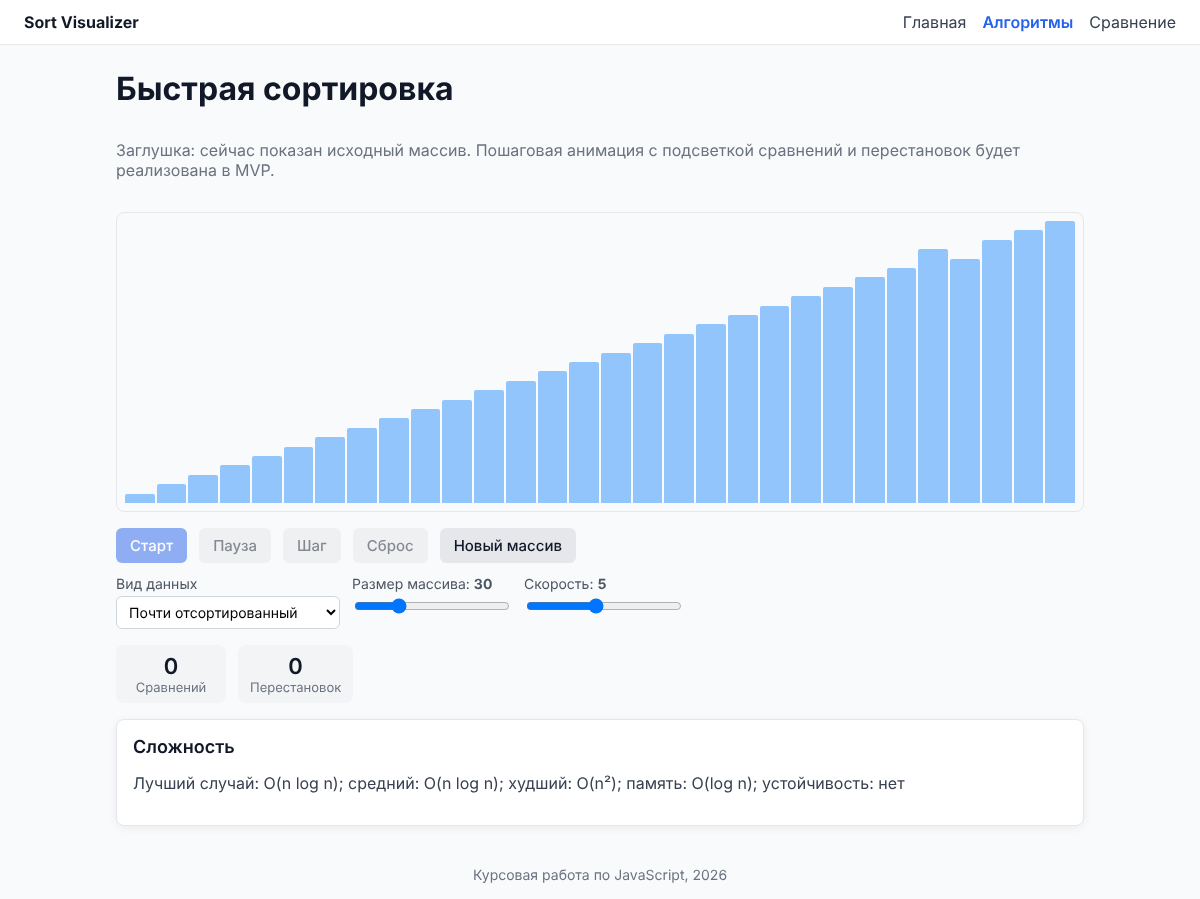
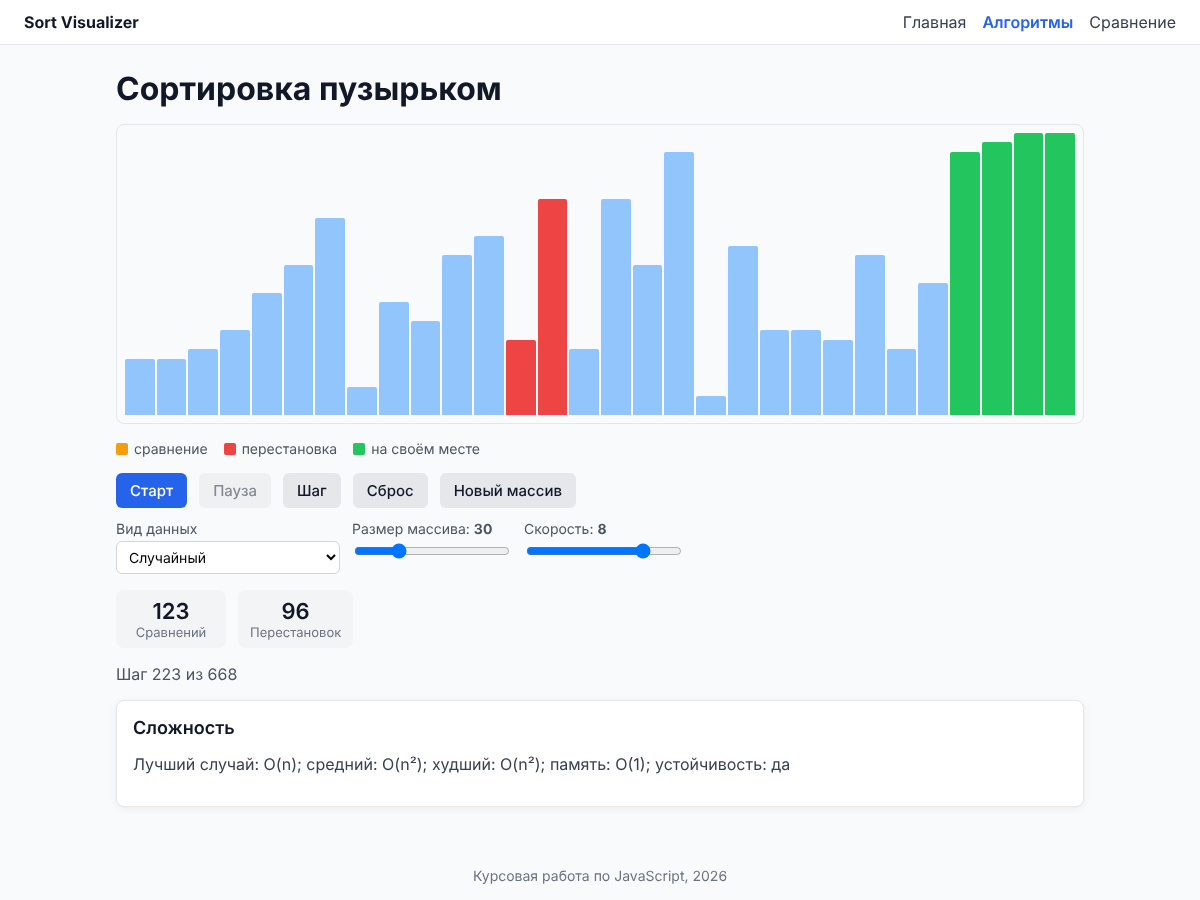
Update README and architecture for MVP

Changed region(s): [[0.0925, 0.1246, 0.8942, 0.9032], [0.0925, 0.0934, 0.4317, 0.1246], [0.6783, 0.8721, 0.7092, 0.9032]]

diff --git a/architecture.md b/architecture.md
@@ -50,14 +50,22 @@ sort-visualizer/
         ├── algorithms/
         │   ├── types.ts       # типы: AlgorithmInfo, SortStep, SortFunction
         │   ├── registry.ts    # список алгоритмов и их характеристики
+        │   ├── StepRecorder.ts # помощник: копия массива, счётчики, создание шагов
+        │   ├── bubbleSort.ts, selectionSort.ts, insertionSort.ts,
+        │   ├── mergeSort.ts, quickSort.ts, heapSort.ts   # алгоритмы-генераторы
+        │   ├── algorithms.test.ts
         │   └── registry.test.ts
+        ├── hooks/
+        │   ├── useSortAnimation.ts       # проигрыватель шагов (старт, пауза, шаг, сброс)
+        │   └── useSortAnimation.test.ts
         ├── utils/
         │   ├── generateArray.ts      # генерация массивов разного вида
-        │   └── generateArray.test.ts
+        │   ├── barStates.ts          # шаг алгоритма -> цвета столбцов
+        │   └── *.test.ts
         ├── components/
         │   ├── Layout/Layout.tsx
         │   ├── Header/Header.tsx
-        │   ├── ControlPanel/ControlPanel.tsx
+        │   ├── ControlPanel/ControlPanel.tsx, ControlPanel.test.tsx
         │   ├── StepCounters/StepCounters.tsx
         │   └── ComparisonTable/ComparisonTable.tsx
         └── pages/
@@ -134,9 +142,20 @@ sort-visualizer/
 | `VisualizerPage` | Пошаговая визуализация выбранного алгоритма |
 | `ComparePage` | Сравнение производительности всех алгоритмов на одном массиве |
 | `NotFoundPage` | Страница 404 |
-| `algorithms/registry.ts` | Справочник алгоритмов: идентификатор, название, сложность, память, устойчивость. Функция `findAlgorithm` |
-| `algorithms/types.ts` | Типы `AlgorithmInfo`, `SortStep` (один шаг анимации), `SortFunction` (алгоритм как функция-генератор шагов) |
+| `algorithms/registry.ts` | Справочник алгоритмов: идентификатор, название, сложность, память, устойчивость и функция сортировки. Функция `findAlgorithm` |
+| `algorithms/types.ts` | Типы `AlgorithmInfo`, `SortStep` (один шаг анимации: тип, индексы элементов, состояние массива, отсортированные элементы, счётчики), `SortFunction` (алгоритм как функция-генератор шагов) |
+| `algorithms/StepRecorder.ts` | Класс-помощник для алгоритмов: работает с копией массива, выполняет сравнение, обмен и запись, считает операции и создаёт объекты `SortStep` |
+| `algorithms/*Sort.ts` | Шесть алгоритмов сортировки. Каждый оформлен как функция-генератор, которая через `yield` возвращает шаги |
+| `hooks/useSortAnimation.ts` | Хук-проигрыватель. Получает готовый список шагов и скорость, по таймеру переходит к следующему шагу. Возвращает текущий шаг и функции `play`, `pause`, `step`, `reset` |
 | `utils/generateArray.ts` | Генерация массива заданного размера и вида: случайный, отсортированный, обратный, почти отсортированный |
+| `utils/barStates.ts` | Преобразует шаг алгоритма в состояния столбцов для `ArrayBars`: сравнение, перестановка, на своём месте |
+
+### Как работает пошаговая анимация
+
+1. `VisualizerPage` хранит исходный массив. При его изменении вызывается `algorithm.sort(array)`, и все шаги собираются в список: `Array.from(generator)`.
+2. `useSortAnimation` хранит номер текущего шага. В режиме воспроизведения он увеличивает номер по `setTimeout`. Задержка зависит от скорости: `1000 / 2^(speed - 1)` мс.
+3. Текущий шаг содержит готовое состояние массива и счётчики. Страница передаёт их в `ArrayBars` и `StepCounters`, а `getBarStates` раскрашивает столбцы.
+4. Логика алгоритмов отделена от отображения: те же функции-генераторы можно запускать без анимации, например для замеров на странице сравнения.
 
 ## 4. Маршрутизация
 
@@ -176,3 +195,4 @@ sort-visualizer/
    - `StepCounters`: `Stat`;
    - `ComparePage`: `Button`, `Card`.
 5. В `app/vite.config.ts` указано `resolve.dedupe: ['react', 'react-dom']`, чтобы приложение и библиотека использовали один экземпляр React.
+6. В тестах приложения (`app/jest.config.ts`) пакет `@sort-visualizer/ui-library` сопоставлен с исходниками `ui-library/src/index.ts`. Jest не умеет загружать ESM-сборку из `dist`, а так компоненты библиотеки можно использовать в тестах приложения.

diff --git a/README.md b/README.md
@@ -4,14 +4,27 @@
 
 Веб-приложение показывает пошаговую работу шести алгоритмов сортировки: пузырьком, выбором, вставками, слиянием, быстрой и пирамидальной. Ещё оно позволяет сравнить их производительность на одинаковых данных.
 
-Текущее состояние - **каркас приложения** (лабораторная работа 5):
-- маршруты, страницы и компоненты созданы;
-- массив генерируется и отображается;
-- анимация и замеры пока заглушки, они появятся в MVP.
-
 Документация:
 - [architecture.md](architecture.md) - структура проекта, библиотеки, компоненты, маршрутизация;
 - [mvp.md](mvp.md) - use case и границы MVP.
+
+## MVP
+
+В MVP (лабораторная работа 6) реализован основной сценарий из `mvp.md` - пошаговый просмотр работы алгоритма сортировки:
+
+- **Выбор алгоритма.** На странице «Алгоритмы» выбирается один из шести алгоритмов. По адресу вида `/algorithms/quick` открывается его визуализация.
+- **Исходный массив.** Массив показан столбчатой диаграммой. Можно выбрать вид данных (случайный, отсортированный, обратно отсортированный, почти отсортированный) и размер (5-100 элементов), а также сгенерировать новый массив.
+- **Анимация.**
+  - «Старт» запускает анимацию, «Пауза» останавливает её, повторный «Старт» продолжает с того же места.
+  - «Шаг» выполняет ровно один шаг.
+  - «Сброс» возвращает исходный массив и обнуляет счётчики.
+- **Подсветка.** Сравниваемые элементы выделяются оранжевым, переставляемые - красным, стоящие на своём месте - зелёным.
+- **Счётчики.** Счётчики сравнений и перестановок обновляются на каждом шаге.
+- **Скорость.** Её можно менять во время анимации.
+- **Завершение.** Когда массив отсортирован, все столбцы становятся зелёными, а «Старт» недоступен до сброса.
+- **Неизвестный алгоритм.** Для адреса с неизвестным алгоритмом (`/algorithms/abc`) показывается сообщение «Алгоритм не найден».
+
+Страница «Сравнение» пока остаётся заглушкой.
 
 ## Структура
 
@@ -50,20 +63,29 @@ npm run dev
 | `npm test` | модульные тесты |
 | `npm run test:coverage` | тесты с отчётом о покрытии |
 
+## Демонстрация основного сценария
+
+1. Откройте «Алгоритмы» и выберите «Сортировка пузырьком».
+2. Выберите вид данных «Случайный» и размер 30.
+3. Нажмите «Шаг» несколько раз: столбцы подсвечиваются, счётчики растут.
+4. Нажмите «Старт», затем «Пауза», затем снова «Старт» и увеличьте скорость.
+5. Дождитесь сообщения «Массив отсортирован» и нажмите «Сброс».
+6. Повторите сценарий для быстрой сортировки на почти отсортированном массиве. Сравнений получается заметно больше: это худший случай для выбранной реализации.
+
 ## Скриншоты
-
-Главная страница:
-
-![Главная страница](docs/screenshots/home.png)
 
 Список алгоритмов:
 
 ![Список алгоритмов](docs/screenshots/algorithms.png)
 
-Страница визуализации (каркас: массив, панель управления, счётчики):
+Пошаговая анимация: красным выделена перестановка, зелёным - элементы на своих местах:
 
-![Визуализация](docs/screenshots/visualizer.png)
+![Анимация](docs/screenshots/visualizer.png)
 
-Страница сравнения (каркас таблицы результатов):
+Сортировка завершена:
 
-![Сравнение](docs/screenshots/compare.png)
+![Сортировка завершена](docs/screenshots/visualizer-finished.png)
+
+Главная страница:
+
+![Главная страница](docs/screenshots/home.png)
